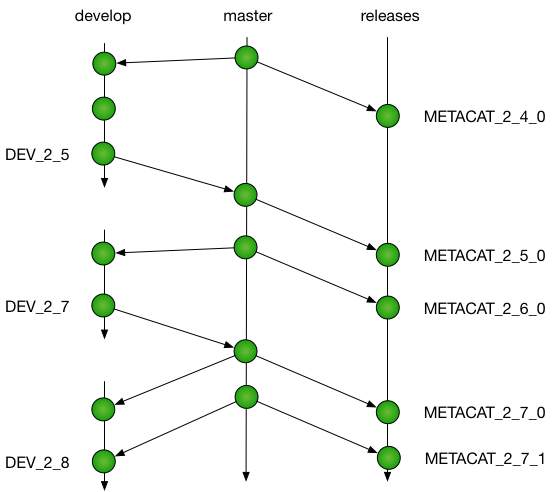
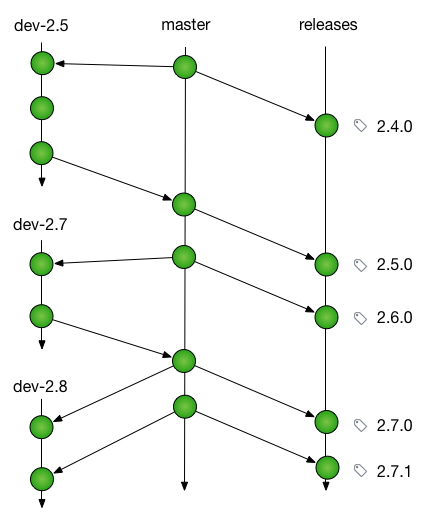
Updated the CONTRIBUTING doc with new branch and tag syntax.
Improved the dev flow diagram and made another diagram example that
reflects the process for feature branches.

diff --git a/CONTRIBUTING.md b/CONTRIBUTING.md
@@ -50,39 +50,43 @@ Development is managed through the git repository at https://github.com/NCEAS/me
 - the current release version, if the HEAD of `master` still matches the HEAD of `releases`. For example, `2.8.5`.
 - the planned next release number with a `beta` designator or release candidate `rc` designator appended as appropriate.  For example, `2.8.6-beta1` or `2.9.0-rc1`.
 
-**releases**. Releases are merged from the `master` branch to the `releases` branch, and the resulting commit is tagged with the release tag (e.g., `METACAT_2_4_0`). The tip of the `releases` branch always reflects the most recent release of the software.
+**releases**. Releases are merged from the `master` branch to the `releases` branch, and the resulting commit is tagged with the release tag (e.g., `2.4.0`). The tip of the `releases` branch always reflects the most recent release of the software.
 
-**DEV**. Development takes place on a series of development branches.  While there is some
+**dev**. Development takes place on a series of development branches.  While there is some
 flexibility in how many development and feature branches are made, we typically
-create one `DEV_X_Y` branch for integrated development and testing of the set of features
-targeting a particular release.  Much of the development happens directly on these *DEV*
+create one `dev-x.y` branch for integrated development and testing of the set of features
+targeting a particular release.  Much of the development happens directly on these *dev*
 branches, but when needed a separate feature branch can be created to isolate development
 on a specific set of capabilities, especially if it may be disruptive to other developers
-working on the main DEV* branch.
+working on the main dev-* branch.
 
-![](docs/dev/images/nceas-dev-flow-full.png)
-
-**FEATURE**. Feature branches should be named with a prefix of the DEV branch
+**feature**. Feature branches should be named with a prefix of the `dev` branch
 that they are targeting,
 and should include a short descriptive label reflecting their purpose.  For example,
-`DEV_2_9_indexing` might be a new feature being developed independently but intended to be merged into the `DEV_2_9` branch. If a feature is being developed for an uncertain future
-release, the branch should be prefixed with `FEATURE_` and contain a descriptive label.
-For example, a `FEATURE_globus_auth` might target some unknown future release.
+`dev-2.9-indexing` might be a new feature being developed independently but intended to be merged into the `dev-2.9` branch. If a feature is being developed for an uncertain future
+release, the branch should be prefixed with `feature-` and contain a descriptive label.
+For example, a `feature-globus_auth` might target some unknown future release.
 
 All development branches should be frequently merged with changes from `master` to
 ensure that the development branch stays up to date with other features that have
-been tested and are awaiting release.  Thus, each `DEV*` branch represents an opportunity
+been tested and are awaiting release.  Thus, each `dev-*` branch represents an opportunity
 for integration testing of the set of features intended to work together for a
 particular release.
 
+### Development flow overview
+![](docs/dev/images/nceas-dev-flow-full.png)
+
+### Development flow for a single release
+![](docs/dev/images/nceas-single-release-flow.png)
+
 ## Release process
 
-The release process starts with integration testing in a DEV* branch. Once all
-changes that are desired in a release are merged into the DEV branch, we run
-the full set of tests on a clean checkout of the DEV branch.
+The release process starts with integration testing in a `dev*` branch. Once all
+changes that are desired in a release are merged into the `dev` branch, we run
+the full set of tests on a clean checkout of the `dev` branch.
 
-Second, create a pull request to merge those changes from the `metacat/DEV*` branch
-to the `metacat/master` branch.  This pull request should be done from the DEV*
+Second, create a pull request to merge those changes from the `metacat/dev-*` branch
+to the `metacat/master` branch.  This pull request should be done from the `dev*`
 branch within the Metacat repository in order to make it simple for others to
 review the changes, and to maintain a record of the development branch commits.
 This pull request will be reviewed by another developer, and, after issues and
@@ -102,7 +106,7 @@ Any new code developed should include a robust set of unit tests for each public
 method, as well as integration tests from new feature sets.  Tests should fully
 exercise the feature to ensure that it responds correctly to both good data inputs
 as well as various classes of corrupt or bad data.  All tests should pass before
-a `DEV` branch is merged to master, and all tests should pass before the `master`
+a `dev` branch is merged to master, and all tests should pass before the `master`
 branch is merged to `releases` and tagged for a release.
 
 **Continuous integration**. Metacat is built upon every commit through the Jenkins
